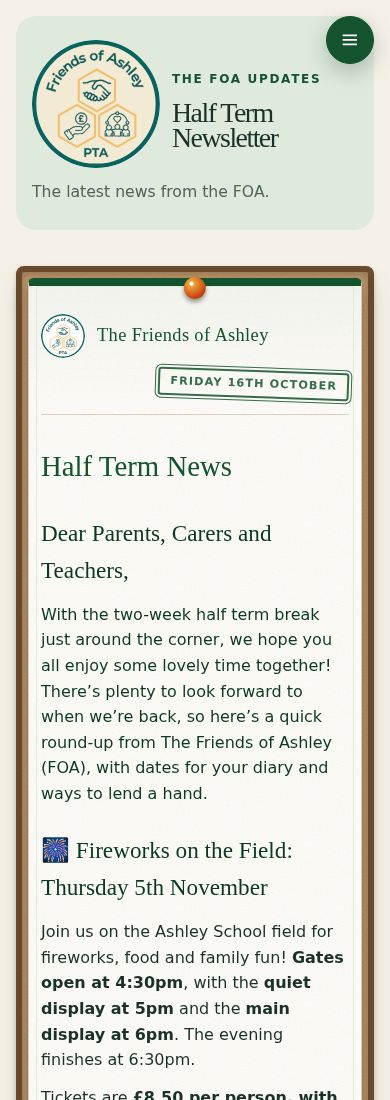
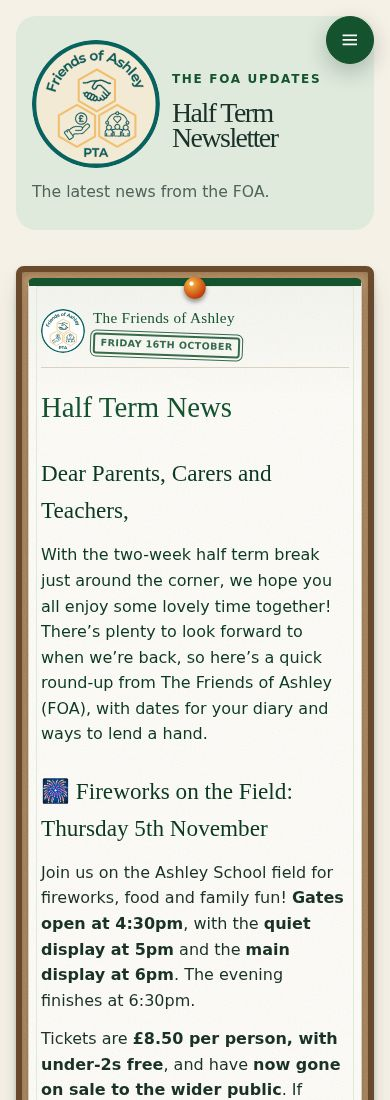
[CF-Pages-Skip] Make the phone newsletter date smaller and lift the content

Changed region(s): [[0.0923, 0.2782, 0.9231, 1.0], [0.6154, 0.4018, 0.6462, 0.4327]]

diff --git a/tests/e2e/newsletter-width.spec.ts b/tests/e2e/newsletter-width.spec.ts
@@ -14,6 +14,10 @@ for(const width of [360,390,430])for(const theme of ['day','night'])for(const en
  await page.setViewportSize({width,height:1000});await page.goto('/newsletter/');await page.evaluate(({theme,enlarged})=>{document.documentElement.dataset.theme=theme;document.documentElement.style.fontSize=enlarged?'200%':'100%'},{theme,enlarged});
  const size=await page.locator('.newsletter-reading-board article').evaluate(el=>el.clientWidth-parseFloat(getComputedStyle(el).paddingLeft)-parseFloat(getComputedStyle(el).paddingRight));
  expect(size).toBeGreaterThanOrEqual(width-(enlarged?164:84));
+ const header=page.locator('.newsletter-reading-board .newsletter-letterhead');
+ const date=header.locator('time');
+ expect(parseFloat(await date.evaluate(el=>getComputedStyle(el).fontSize))).toBeLessThan(enlarged?20:10);
+ if(!enlarged){const h=(await header.boundingBox())!;expect(h.height).toBeLessThan(70);expect((await date.boundingBox())!.y).toBeLessThan(h.y+50)}
  expect(await page.evaluate(()=>document.documentElement.scrollWidth<=innerWidth)).toBe(true);
  await page.locator('.newsletter-reading-board .newsletter-read-more').click();await expect(page.locator('.newsletter-reading-board .newsletter-more')).toBeVisible();
 });

diff --git a/src/styles/global.css b/src/styles/global.css
@@ -2356,6 +2356,36 @@ svg.cta-icon {
   transform: rotate(2deg);
 }
 
+@media (max-width: 47.99rem) {
+  .newsletter-page .newsletter-board .newsletter-sheet {
+    padding-top: 1.25rem;
+  }
+
+  .newsletter-letterhead {
+    display: grid;
+    grid-template-columns: 2.75rem minmax(0, 1fr);
+    gap: 0.3rem 0.5rem;
+    margin-bottom: 1rem;
+    padding-bottom: 0.65rem;
+    font-size: 0.95rem;
+  }
+
+  .newsletter-letterhead > img {
+    grid-row: 1 / 3;
+    max-width: 100%;
+  }
+
+  .newsletter-letterhead-date {
+    grid-column: 2;
+    justify-self: start;
+    max-width: 100%;
+    margin-left: 0;
+    padding: 0.15rem 0.35rem;
+    font-size: 0.6rem;
+    letter-spacing: 0.04em;
+  }
+}
+
 .newsletter-letterhead img {
   flex: none;
   width: 2.75rem;

diff --git a/docs/PROJECT-BRIEF.md b/docs/PROJECT-BRIEF.md
@@ -400,4 +400,4 @@ The homepage Donations Day notice sits inside the Christmas Fayre splash below i
 
 The December jumper treatment runs through the sale day and expires at midnight after Friday 4 December (Europe/London). Uniform returns to its ordinary buy/donate content, without an invented next sale date. The same boundary applies to Reps and the active What's On listing; the latter retains a past-event record. On the first build after expiry, Uniform's social image and description return to the standard logo and evergreen copy. The existing daily 08:00 build supplies that server-rendered metadata update; chat apps may retain cached previews.
 
-The desktop newsletter reader uses an 84rem maximum frame, an 18rem issue index and a slimmer cork surround. Give the reading sheet the recovered width rather than widening only the decoration. On phones, use a 0.375rem cork border and surround with 0.75rem paper side padding, recovering reading width while retaining the noticeboard. Keep the stacked layouts, content and reading controls. This layout change is separate from newsletter issue publication.
+The desktop newsletter reader uses an 84rem maximum frame, an 18rem issue index and a slimmer cork surround. Give the reading sheet the recovered width rather than widening only the decoration. On phones, use a 0.375rem cork border and surround with 0.75rem paper side padding, recovering reading width while retaining the noticeboard. The phone letterhead groups a smaller date stamp beneath the name beside the logo, with tighter top and header spacing so the issue starts higher. Keep the stacked layouts, content and reading controls. This layout change is separate from newsletter issue publication.
